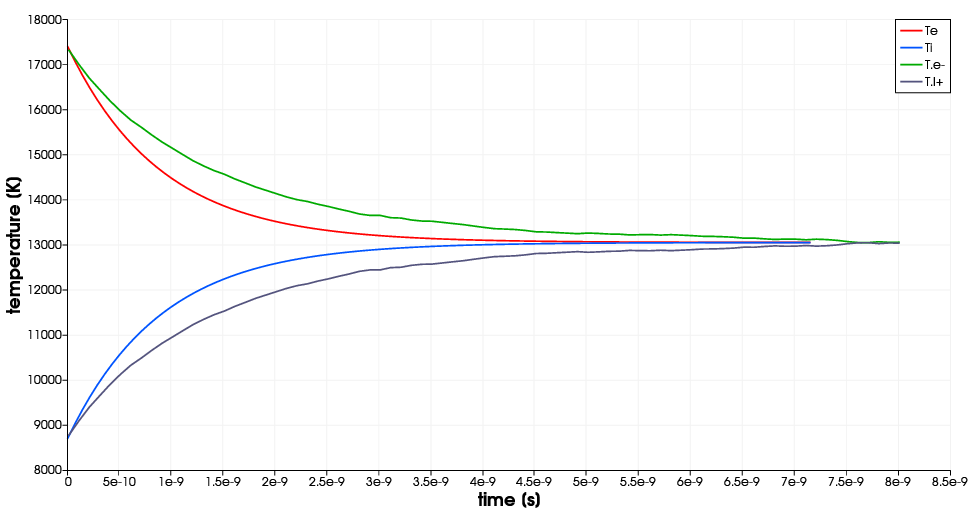
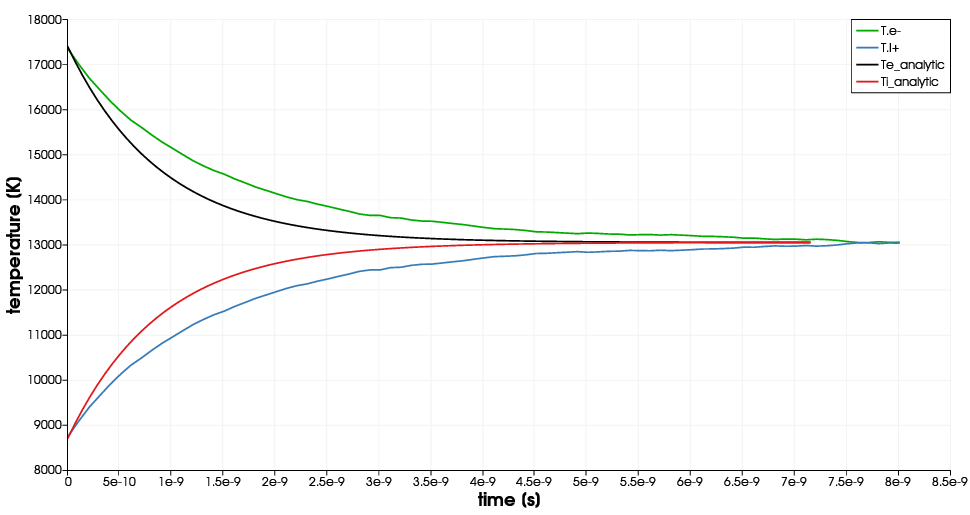
cleanup

diff --git a/test/box_dsmc_nanbu_ei.cpp b/test/box_dsmc_nanbu_ei.cpp
@@ -23,14 +23,14 @@ void save_analytical_solution()
 {
 	double lambda_D = sqrt(EPS0*K*Tinf/(n*QE*QE));
 	double ln_Lambda = log(lambda_D*2*PI*EPS0*3*K*Tinf/(QE*QE));
-	double mu = me*mi/(me + mi);
-	double tau0 = 1/(n*pow(QE, 4)*ln_Lambda
-			/(4*PI*pow(EPS0, 2)*sqrt(mu)*pow(K*Tinf, 1.5)));
 
-	double t_hat_end = 50;
-	double dt_hat = t_hat_end/100.0;
+	double nu0 = pow(QE, 4)*n*ln_Lambda
+			/(8*sqrt(2)*PI*pow(EPS0, 2)*sqrt(me)*pow(K*Te, 1.5));
+	double nueq = 8.0/(3*sqrt(PI))*me/mi*pow(1 + me/mi*Ti/Te, -1.5)*nu0;
 
 	double dT0 = Te - Ti;
+
+	double t_end = 8e-9;
 
 	string fname = "test/simulation/nanbu_analytic.csv";
 	ofstream out(fname);
@@ -41,10 +41,8 @@ void save_analytical_solution()
 
 	out << "time,Te,Ti\n";
 
-	for (double t_hat = 0; t_hat <= t_hat_end; t_hat += dt_hat) {
-		double t = t_hat*tau0;
-		double dT = dT0*exp(-2/(5*sqrt(2*PI))*t_hat);
-
+	for (double t = 0; t <= t_end; t += t_end/100.0) {
+		double dT = dT0*exp(-2*nueq*t);
 		out << t << ',' << Tinf + dT/2.0 << ',' << Tinf - dT/2.0 << endl;
 	}
 
@@ -81,18 +79,9 @@ int main()
 	vector<unique_ptr<Interaction>> interactions;
 	interactions.push_back(make_unique<DSMC_Nanbu>(domain, species, Te, n));
 
-	//Solver solver(domain, 10000, 1e-4);
-
-	domain.check_formulation(n, Te);
-
 	while (domain.advance_time()) {
-		//domain.calc_charge_density(species);
-		//solver.calc_potential();
-		//solver.calc_electric_field();
-
 		for(Species &sp : species) {
 			sp.push_particles_leapfrog();
-			//sp.remove_dead_particles();
 			sp.calc_number_density();
 			sp.sample_moments();
 			sp.calc_gas_properties();
@@ -104,16 +93,8 @@ int main()
 			interaction->apply(domain.get_time_step());
 
 		if (domain.get_iter()%10 == 0 || domain.is_last_iter()) {
-			//for(Species &sp : species) {
-			//	sp.calc_macroparticle_count();
-			//}
-			//domain.calc_coulomb_log(species[0]);
-
 			domain.print_info(species);
 			domain.write_statistics(species);
-			//domain.save_fields(species);
-			//domain.save_particles(species, 1000);
-			//domain.save_velocity_histogram(species);
 		}
 	}
 }

diff --git a/test/box_dsmc_nanbu_ee.cpp b/test/box_dsmc_nanbu_ee.cpp
@@ -59,7 +59,7 @@ int main()
 	Domain domain("test/simulation/box_dsmc_nanbu", 2, 2, 2);
 	domain.set_dimensions(x_min, x_max);
 	domain.set_time_step(1e-11);
-	domain.set_iter_max(80);
+	domain.set_iter_max(800);
 
 	domain.set_bc_at(Xmin, BC(PBC::Periodic, FBC::Periodic));
 	domain.set_bc_at(Xmax, BC(PBC::Periodic, FBC::Periodic));
@@ -69,25 +69,16 @@ int main()
 	domain.set_bc_at(Zmax, BC(PBC::Periodic, FBC::Periodic));
 
 	vector<Species> species;
-	species.push_back(Species("e-", ME, -QE, 1e5, domain));
+	species.push_back(Species("e-", ME, -QE, 0.5e6, domain));
 
 	species[0].add_warm_box(x_min, x_max, ne, {0, 0, 0}, {Tx, Ty, Ty});
 
 	vector<unique_ptr<Interaction>> interactions;
 	interactions.push_back(make_unique<DSMC_Nanbu>(domain, species, Te, ne));
 
-	//Solver solver(domain, 10000, 1e-4);
-
-	domain.check_formulation(ne, Te);
-
 	while (domain.advance_time()) {
-		//domain.calc_charge_density(species);
-		//solver.calc_potential();
-		//solver.calc_electric_field();
-
 		for(Species &sp : species) {
 			sp.push_particles_leapfrog();
-			//sp.remove_dead_particles();
 			sp.calc_number_density();
 			sp.sample_moments();
 			sp.calc_gas_properties();
@@ -99,16 +90,8 @@ int main()
 			interaction->apply(domain.get_time_step());
 
 		if (domain.get_iter()%10 == 0 || domain.is_last_iter()) {
-			//for(Species &sp : species) {
-			//	sp.calc_macroparticle_count();
-			//}
-			//domain.calc_coulomb_log(species[0]);
-
 			domain.print_info(species);
 			domain.write_statistics(species);
-			//domain.save_fields(species);
-			//domain.save_particles(species, 1000);
-			//domain.save_velocity_histogram(species);
 		}
 	}
 }
